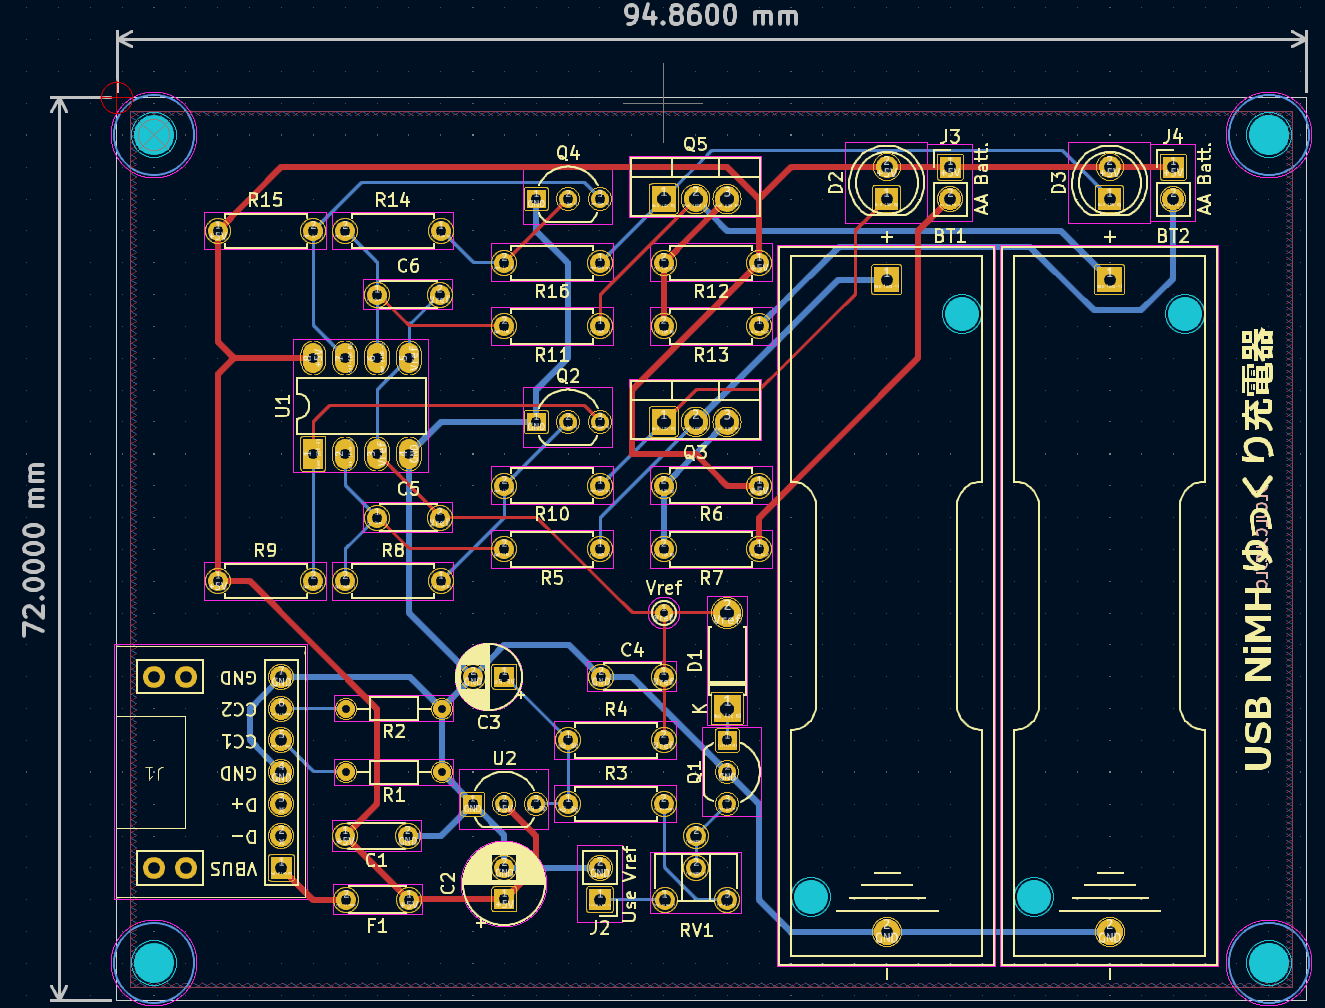
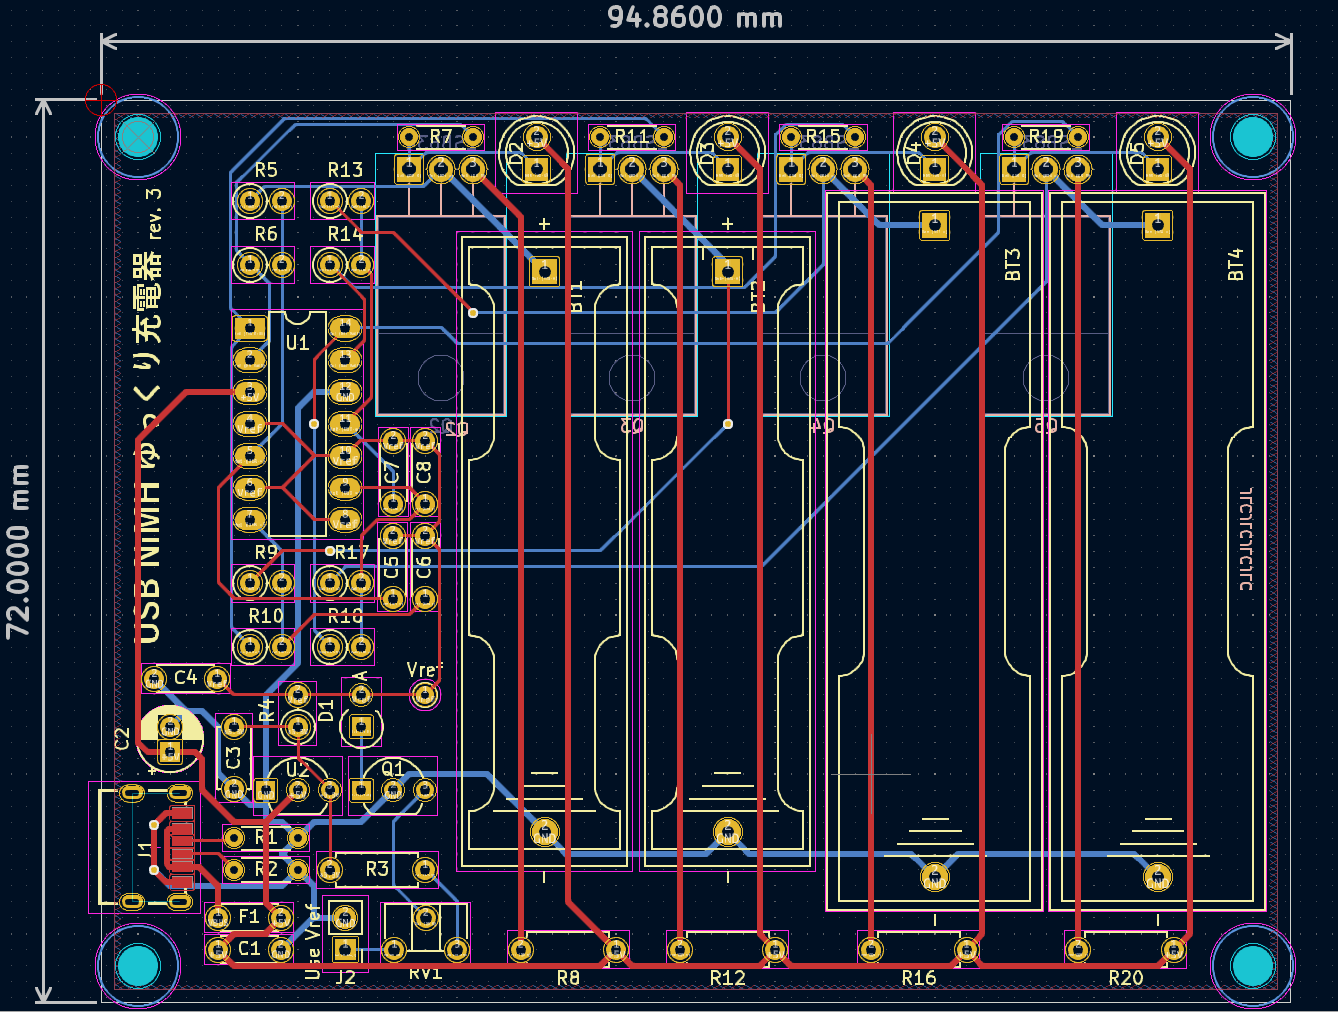
doc: Update document and images

diff --git a/README.md b/README.md
@@ -2,7 +2,7 @@
 
 ## 概要
 
-[秋月電子](https://akizukidenshi.com/)の[いたわりNiCd充電器 キット](https://akizukidenshi.com/download/kairo/%E3%83%87%E3%83%BC%E3%82%BF/%E5%85%85%E9%9B%BB%E5%99%A8%E9%96%A2%E4%BF%82/H001%E3%81%84%E3%81%9F%E3%82%8F%E3%82%8ANiCd_.pdf)を元に、USBを電源とし、ニッケル水素電池を1本単位で2本まで充電できるようにした充電器です。
+[秋月電子](https://akizukidenshi.com/)の[いたわりNiCd充電器 キット](https://akizukidenshi.com/download/kairo/%E3%83%87%E3%83%BC%E3%82%BF/%E5%85%85%E9%9B%BB%E5%99%A8%E9%96%A2%E4%BF%82/H001%E3%81%84%E3%81%9F%E3%82%8F%E3%82%8ANiCd_.pdf)を元に、USBを電源とし、ニッケル水素電池を1本単位で単3、単4それぞれ2本まで充電できるようにした充電器です。
 
 ## 使用したソフトウェア
 
@@ -11,39 +11,38 @@ KiCad 7.0
 
 ## 回路図
 
-[![schema](https://raw.githubusercontent.com/k-takata/PCB_USB_NiMH_Charger/master/images/schema.png)](https://raw.githubusercontent.com/k-takata/PCB_USB_NiMH_Charger/master/images/schema.pdf)
+[![schema](https://raw.githubusercontent.com/k-takata/PCB_USB_NiMH_Charger/batt-4/images/schema.png)](https://raw.githubusercontent.com/k-takata/PCB_USB_NiMH_Charger/batt-4/images/schema.pdf)
 
 ## 基板パターン図
 
-![PCB pattern](https://raw.githubusercontent.com/k-takata/PCB_USB_NiMH_Charger/master/images/pcb-pattern.png)
+![PCB pattern](https://raw.githubusercontent.com/k-takata/PCB_USB_NiMH_Charger/batt-4/images/pcb-pattern.png)
 
 ## 部品表
 
-| Reference           |個数|値    | 説明 |
-|---------------------|----|------|------|
-|BT1, BT2             |   2|      |[単3電池ボックス](https://akizukidenshi.com/catalog/g/gP-00308/)|
-|C1, C4, C5, C6       |   4|0.1μF|積層セラミックコンデンサー|
-|C2                   |   1|220μF|電解コンデンサー φ6.3[^1] (100 ~ 470μF)|
-|C3                   |   1| 10μF|電解コンデンサー|
-|D1                   |   1|[11EQS04](https://akizukidenshi.com/catalog/g/gI-11363/)|ショットキーバリアダイオード|
-|D2, D3               |   2|      |赤色LED|
-|F1                   |   1|  1.1A|[ポリヒューズ](https://akizukidenshi.com/catalog/g/gP-00507/)|
-|J1                   |   1|      |[USB Type-C コネクター](https://akizukidenshi.com/catalog/g/gK-13080/)、[同等品](https://akizukidenshi.com/catalog/g/gK-15426/)でも可|
-|J2                   |   1|      |ピンヘッダー 1x2、強制充電用|
-|J3, J4               |   2|      |ピンヘッダー 1x2、単3/単4切り替え用|
-|Q1                   |   1|2SA1015||
-|Q2, Q4               |   2|2SC1815||
-|Q3, Q5               |   2|[2SB834](https://akizukidenshi.com/catalog/g/gI-08747/)||
-|R1, R2               |   2|5.1kΩ|緑茶赤金、小型|
-|R3                   |   1| 10kΩ|茶黒橙金、半固定抵抗RV1と同じ値|
-|R4, R5, R9, R11, R15 |   5| 10kΩ|茶黒橙金|
-|R6, R12              |   2|  15Ω|茶緑黒金、1/2W 小型|
-|R7, R13              |   2|  10Ω|茶黒黒金、1/2W 小型|
-|R8, R14              |   2|  1MΩ|茶黒緑金|
-|R10, R16             |   2| 680Ω|青灰茶金|
-|RV1                  |   1| 10kΩ|抵抗R3と同じ値、[GF063P](https://akizukidenshi.com/catalog/g/gP-14905/)|
-|U1                   |   1|[LM393](https://akizukidenshi.com/catalog/g/gI-16987/)|2回路入りコンパレーター|
-|U2                   |   1|[S-812C33](https://akizukidenshi.com/catalog/g/gI-03289/)|低損失CMOS三端子レギュレーター 3.3V 50mA|
+| Reference            |個数|値    | 説明 |
+|----------------------|----|------|------|
+|BT1, BT2              |   2|      |[単4電池ボックス](https://akizukidenshi.com/catalog/g/gP-02670/)|
+|BT3, BT4              |   2|      |[単3電池ボックス](https://akizukidenshi.com/catalog/g/gP-00308/)|
+|C1, C4, C5, C6, C7, C8|   6|0.1μF|積層セラミックコンデンサー|
+|C2                    |   1|100μF|電解コンデンサー φ5[^1]|
+|C3                    |   1| 10μF|[積層セラミックコンデンサー 10μF](https://akizukidenshi.com/catalog/g/gP-03095/)|
+|D1                    |   1|[11EQS03L](https://akizukidenshi.com/catalog/g/gI-08997/)|ショットキーバリアダイオード|
+|D2, D3, D4, D5        |   4|      |[低消費赤色LED](https://akizukidenshi.com/catalog/g/gI-16914/)|
+|F1                    |   1|  1.1A|[ポリヒューズ](https://akizukidenshi.com/catalog/g/gP-00507/)|
+|J1                    |   1|UJC-HP-3-SMT-TR|[USB Type-C コネクター 電源供給用](https://akizukidenshi.com/catalog/g/gC-16438/)|
+|J2                    |   1|      |ピンヘッダー 1x2、強制充電用|
+|Q1                    |   1|2SA1015||
+|Q2, Q3, Q4, Q5        |   4|[2SB834](https://akizukidenshi.com/catalog/g/gI-08747/)|裏面に取り付け|
+|R1, R2                |   2|5.1kΩ|緑茶赤金、小型|
+|R3                    |   1| 10kΩ|茶黒橙金、半固定抵抗RV1と同じ値|
+|R4, R5, R9, R13, R17  |   5| 10kΩ|茶黒橙金|
+|R6, R10, R14, R18     |   4|  1MΩ|茶黒緑金|
+|R7, R11, R15, R19     |   4|  2kΩ|赤黒赤金、小型|
+|R8, R12               |   2|  15Ω|茶緑黒金、1/2W 小型|
+|R16, R20              |   2| 5.6Ω|緑青金金、1/2W 小型|
+|RV1                   |   1| 10kΩ|抵抗R3と同じ値、[GF063P](https://akizukidenshi.com/catalog/g/gP-14905/)|
+|U1                    |   1|[μPC339C](https://akizukidenshi.com/catalog/g/gI-12556/)|4回路入りコンパレーター、[LM339](https://akizukidenshi.com/catalog/g/gI-00436/)でも可|
+|U2                    |   1|[S-812C33](https://akizukidenshi.com/catalog/g/gI-03289/)|低損失CMOS三端子レギュレーター 3.3V 50mA|
 
 [^1]: このサイズならば、まっすぐ足が奥まで挿せる。
 
@@ -51,21 +50,24 @@ KiCad 7.0
 
 * 電源をACアダプターからUSB Type-Cに変更。
   - USB PD機器からも確実に電源を得られるようにするため、CC1, CC2には5.1kΩを接続。
-  - 安全のため、ポリヒューズを使用。(1.1Aを使用したが0.5A程度でも十分かもしれない。)
+  - 安全のため、ポリヒューズを使用。
 * 充電を2本単位から1本単位に変更。
   - 基準電圧を5.0Vから3.3Vに変更。(U2をS-81350からS-812C33に変更。)
   - 温度補償用のダイオード1S2067A 2本をショットキーバリアダイオード1本に変更。  
     NiMH電池の充電終了時電圧には1本当たり約-3mV/Kの温度係数があります。PN接合には-2mV/Kの温度係数があることから、元の回路ではこれを3直列とし、2本分の-6mV/Kの補正を行っていました。ショットキーバリアダイオードの正確な温度係数は調べられませんでしたが、PN接合の温度係数より小さいよう(-1.0 ~ -1.5mV/K程度?)ですので、これをもって1本分の補正としています。
-* 秋月電子の[B基板](https://akizukidenshi.com/catalog/c/cboard10/)に実装できるよう、充電本数は2本に変更。
-  - 充電回路は2セットになるため、コンパレーターを[LM339](https://akizukidenshi.com/catalog/g/gI-00436/)からLM393に変更。
-* 充電電流を単3と単4用に切り替えられるようにJ3, J4を用意。
-  - J3を開放すると電流設定抵抗はR6の15Ωとなり、BT1の充電電流は単4用の約70mA (= 1.05V / 15Ω)となります。(単4用変換アダプターなどを使用することを想定。)
-  - J3を接続すると電流設定抵抗はR6とR7の合成で6Ωとなり、BT1の充電電流は単3用の約175mA (= 1.05V / 6Ω)となります。(2000mAhの場合は0.09C程度になるので充電時間は17時間程度が目安です。)
-  - BT2については同様にJ4で設定できます。
+* 秋月電子の[B基板](https://akizukidenshi.com/catalog/c/cboard10/)のサイズに実装できるよう、充電本数は単3、単4それぞれ2本に変更。
 * 強制充電用にJ2を用意。
   - 通常充電モード: 通常、J2は接続して使います。充電終止電圧の監視が行われます。
   - 強制充電モード: J2を開放すると、Vrefは3.3Vに設定され、充電終止電圧の監視が行われません。  
     新品のNiMH電池の内部抵抗は0.1Ω程度のようですが、寿命が近づいてくると徐々に内部抵抗が大きくなります。例えば内部抵抗が10Ωにもなると、70mAの充電電流を流すと端子電圧が0.7Vも上昇するため、正常に充電電圧の監視を行うことはできません。こうなってしまうと通常の充電器では充電することができません。そのような場合でも強制充電モードを使えば充電が可能です。ただし、充電電圧の監視がなくなってしまいますので、10～15時間程度で電池を外すようにしてください。
+* 充電電流は以下のように設定。
+  - 単4: 約70mA (= 1.05V / 15Ω)
+  - 単3: 約190mA (= 1.05V / 5.6Ω)
+* LEDを低消費版に変更し、LM339で直接駆動するように変更。
+  - 2SC1815を削除。
+  - プルアップ抵抗を削除。
+  - R7, R11, R15, R19を、680Ωから2kΩに変更。
+    - LEDの電流と、2SB834のベース電流を合わせて1.65mAとなる計算。(5V - 1.7V) / 2kΩ = 1.65mA
 * 2SB948が入手できなかったので、簡単に入手できた2SB834に変更。
 * RV1の回転方向を逆にし、右に回すほどVrefが高くなるように変更。
 
@@ -76,7 +78,10 @@ J2を接続し、RV1を右に回しきって、700mAhの単4なら15時間程度
 
 ## 完成品
 
+準備中
+<!--
 [![完成品](https://raw.githubusercontent.com/k-takata/PCB_USB_NiMH_Charger/master/images/usb-slow-charger-thumb.jpg)](https://raw.githubusercontent.com/k-takata/PCB_USB_NiMH_Charger/master/images/usb-slow-charger.jpg)
+-->
 
 ## License
 
